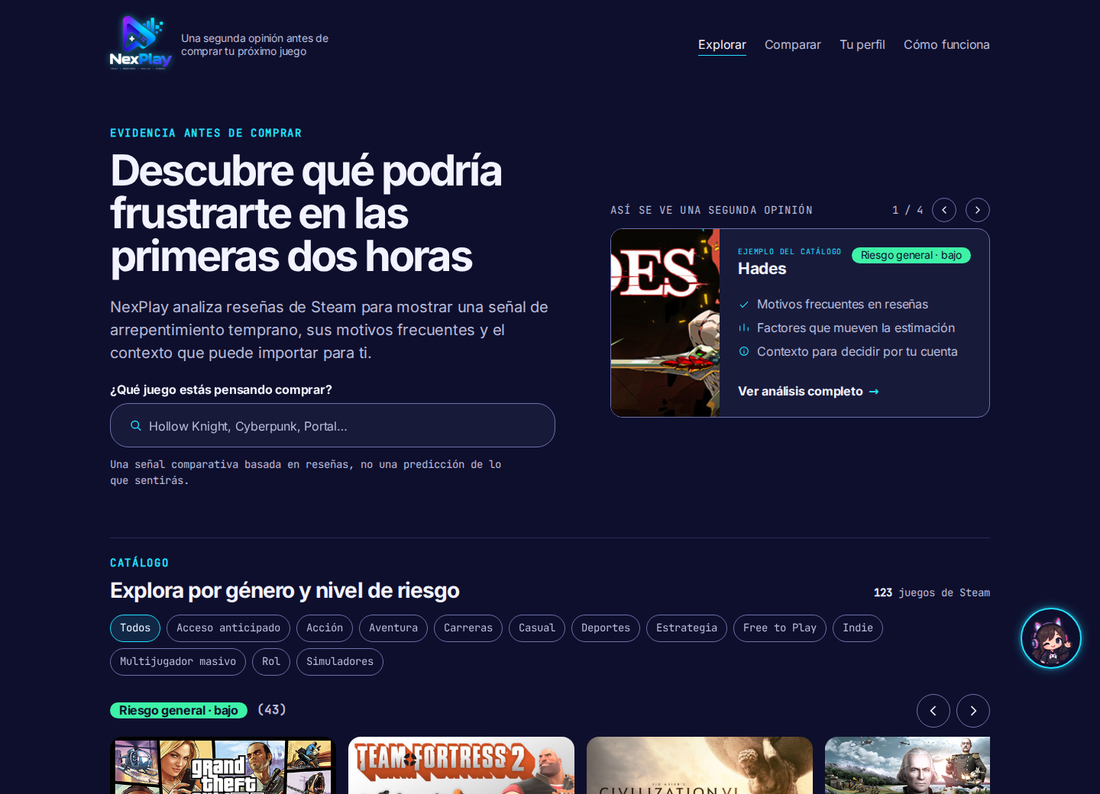
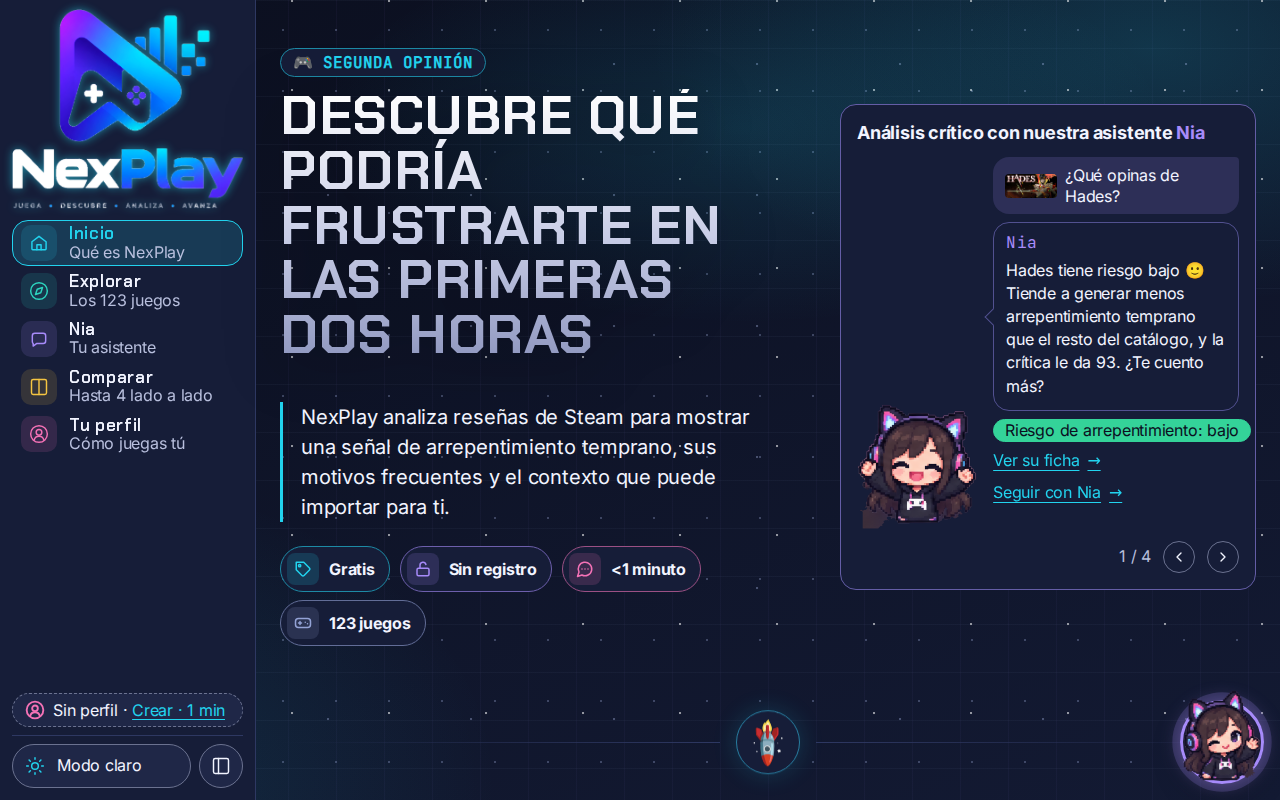
docs(readme): pasada final, insignias, resumen de 30 segundos y capturas de producción
- Encabezado:
  - insignias de Colab (00 y 01), Python 3.12+ y Angular 22;
  - enlaces a la app en vivo (Vercel) y a /docs de la API (Render);
  - un bloque «En 30 segundos» con el problema, qué estima, qué tan bien
    (PR-AUC 0.0694 ± 0.0415, 3.2 veces el trivial; en los 40 externos 0.0356
    contra 0.0234, 1.5 veces) y qué no hace.
- La primera frase dice qué tan seguido un juego deja a sus compradores
  arrepentidos en las primeras horas, según las reseñas de Steam.
- Capturas nuevas de producción (2026-09-30, bundle main-K7U4VOSO.js, modelo
  logreg-juego-2026-10-01, tema oscuro): el inicio reemplaza a la que mostraba
  «Riesgo general», y se suman la ficha de Dead Space y Comparar con PAYDAY 3
  contra Dead Space. .gitignore las deja versionar.
- Un emoji por título de sección; 🏗 ⚙ 🗂 ☁ 🛠 con el selector U+FE0F. El
  índice usa las anclas que GitHub genera con él (#%EF%B8%8F-arquitectura), las
  mismas con github-slugger y con la regla de html-pipeline.
- Prosa más cercana. Los bloques de código, el código en línea, las URLs y las
  cifras del README anterior siguen todos, y cada cifra se verificó contra el
  repo.

diff --git a/README.md b/README.md
@@ -1,56 +1,86 @@
 # NexPlay
 
-**Una segunda opinión antes de comprar tu próximo juego.** NexPlay estima el riesgo de arrepentirte
-pronto de una compra en Steam y te dice por qué, con los motivos que aparecen en reseñas reales en lugar
-de una nota genérica. Es el proyecto del Módulo V del Diplomado en Ciencia de Datos de la FES Acatlán
-(UNAM).
+**Una segunda opinión antes de comprar tu próximo juego.** NexPlay estima qué tan seguido un juego deja a
+sus compradores arrepentidos en las primeras horas, según las reseñas de Steam, y te dice por qué, con los
+motivos que aparecen en reseñas reales y no con una nota genérica. Es el proyecto del Módulo V del Diplomado
+en Ciencia de Datos de la FES Acatlán (UNAM).
 
-![Catálogo de NexPlay: buscador, un ejemplo de segunda opinión y los estantes por banda de riesgo](docs/capturas/captura-interfaz.png)
+[![Open in Colab: 00_exploracion](https://img.shields.io/badge/Open_in_Colab-00__exploracion-F9AB00?logo=googlecolab&logoColor=white)](https://colab.research.google.com/github/fernandoaxelramirezgomez-coder/nexplay/blob/master/notebooks/00_exploracion.ipynb)
+[![Open in Colab: 01_modelo_riesgo](https://img.shields.io/badge/Open_in_Colab-01__modelo__riesgo-F9AB00?logo=googlecolab&logoColor=white)](https://colab.research.google.com/github/fernandoaxelramirezgomez-coder/nexplay/blob/master/notebooks/01_modelo_riesgo.ipynb)
+[![Python 3.12+](https://img.shields.io/badge/Python-3.12%2B-3776AB?logo=python&logoColor=white)](#-requisitos-previos)
+[![Angular 22](https://img.shields.io/badge/Angular-22-DD0031?logo=angular&logoColor=white)](frontend/README.md)
 
-## Índice
+**Pruébalo:** [la app en vivo](https://nexplay-six.vercel.app) · [la API y su contrato (/docs)](https://nexplay-api-345o.onrender.com/docs).
+La API está en el plan gratis de Render y se duerme cuando nadie la usa, así que la primera carga puede tardar
+un poco.
 
-- [Qué es NexPlay](#qué-es-nexplay)
-- [Arquitectura](#arquitectura)
-- [Requisitos previos](#requisitos-previos)
-- [Puesta en marcha](#puesta-en-marcha)
-- [Configuración (.env)](#configuración-env)
-- [API](#api)
-- [Calidad](#calidad)
-- [Estructura del repositorio](#estructura-del-repositorio)
-- [Datos y releases](#datos-y-releases)
-- [Despliegue](#despliegue)
-- [Contenido de usuarios y moderación](#contenido-de-usuarios-y-moderación)
-- [Solución de problemas](#solución-de-problemas)
-- [Autor y datos](#autor-y-datos)
+> **En 30 segundos**
+>
+> - **El problema:** comprar un juego en Steam y arrepentirte en las primeras horas.
+> - **Qué estima:** para cada uno de los 123 juegos del catálogo, una banda de riesgo (bajo, medio o alto) de la
+>   señal de arrepentimiento temprano, con los factores que la mueven y los motivos de queja de las reseñas.
+> - **Qué tan bien:** PR-AUC de 0.0694 ± 0.0415 con GroupKFold por juego, 3.2 veces el clasificador trivial. En
+>   40 juegos que el modelo no vio, 0.0356 contra 0.0234, 1.5 veces el trivial.
+> - **Qué no hace:** no predice lo que vas a sentir tú (el riesgo es del juego), no es una probabilidad y no te
+>   dice si comprar.
 
-## Qué es NexPlay
+![Inicio de NexPlay en producción: qué podría frustrarte en las primeras dos horas y la opinión de Nia sobre Hades, con su riesgo de arrepentimiento](docs/capturas/captura-interfaz.png)
 
-Steam reembolsa una compra si la pides dentro de los 14 días posteriores a la compra y con menos de 2
-horas jugadas.
-NexPlay toma ese límite de 2 horas como referencia: una reseña negativa escrita antes de los 120 minutos de
-juego es una **señal de arrepentimiento temprano** (`Y = 1` si `playtime_at_review < 120` y
-`voted_up == 0`). Las reseñas no dicen cuándo se compró el juego, así que la señal no puede usar los 14
-días. Es una señal proxy: Steam no pregunta a nadie si se arrepintió, así que el proyecto nunca afirma
-que alguien lo hizo.
+<table>
+  <tr>
+    <td width="50%"><img src="docs/capturas/captura-ficha-dead-space.png" alt="Ficha de Dead Space: riesgo de arrepentimiento bajo"></td>
+    <td width="50%"><img src="docs/capturas/captura-comparar.png" alt="Comparar: PAYDAY 3, riesgo alto, contra Dead Space, riesgo bajo"></td>
+  </tr>
+  <tr>
+    <td align="center">La ficha de Dead Space</td>
+    <td align="center">PAYDAY 3 contra Dead Space, en Comparar</td>
+  </tr>
+</table>
 
-- **Datos.** De la API pública de Steam: las reseñas, de `appreviews`; el precio, la gratuidad y la nota de
-  Metacritic de cada juego, de `appdetails`. Todo se publica en releases con tag fijo. El
-  modelo se entrena siempre con data-v1 (83 juegos, 123,972 reseñas). La app sirve 123 juegos (data-v3);
-  los 40 que no están en data-v1 son prueba externa y nunca entran al entrenamiento.
-- **Modelo.** Una regresión logística con variables del juego: gratuidad, precio, descuento y cobertura y
-  nota de la crítica. El riesgo es del juego, igual para cualquier persona. Se valida con GroupKFold por
-  `appid`, porque tiene que funcionar con juegos que no vio, y se mide con PR-AUC, porque la clase es
-  rara: 0.0694 ± 0.0415 entre folds, 3.2 veces el clasificador trivial. En los 40 externos da 0.0356
+## 📑 Índice
+
+- [Qué es NexPlay](#-qué-es-nexplay)
+- [Arquitectura](#%EF%B8%8F-arquitectura)
+- [Requisitos previos](#-requisitos-previos)
+- [Puesta en marcha](#-puesta-en-marcha)
+- [Configuración (.env)](#%EF%B8%8F-configuración-env)
+- [API](#-api)
+- [Calidad](#-calidad)
+- [Estructura del repositorio](#%EF%B8%8F-estructura-del-repositorio)
+- [Datos y releases](#-datos-y-releases)
+- [Despliegue](#%EF%B8%8F-despliegue)
+- [Contenido de usuarios y moderación](#-contenido-de-usuarios-y-moderación)
+- [Solución de problemas](#%EF%B8%8F-solución-de-problemas)
+- [Autor y datos](#-autor-y-datos)
+
+## 🎮 Qué es NexPlay
+
+Steam te devuelve el dinero de un juego si lo pides dentro de los 14 días posteriores a la compra y con menos
+de 2 horas jugadas. NexPlay se fija en ese límite de 2 horas: una reseña negativa escrita antes de los 120
+minutos de juego es una **señal de arrepentimiento temprano** (`Y = 1` si `playtime_at_review < 120` y
+`voted_up == 0`). Los 14 días no se pueden usar, porque las reseñas no dicen cuándo se compró el juego.
+
+Es una señal proxy. Steam no le pregunta a nadie si se arrepintió, así que el proyecto nunca dice que alguien
+lo hizo.
+
+- **Los datos.** Salen de la API pública de Steam: las reseñas, de `appreviews`, y el precio, la gratuidad y
+  la nota de Metacritic de cada juego, de `appdetails`. Todo está publicado en releases con tag fijo. El
+  modelo se entrena siempre con data-v1 (83 juegos, 123,972 reseñas). La app sirve 123 juegos (data-v3), y
+  los 40 que no están en data-v1 son la prueba externa: nunca entran al entrenamiento.
+- **El modelo.** Es una regresión logística con variables del juego: gratuidad, precio, descuento y cobertura
+  y nota de la crítica. El riesgo es del juego, el mismo para cualquier persona. Se valida con GroupKFold por
+  `appid`, porque tiene que funcionar con juegos que no vio, y se mide con PR-AUC, porque la señal aparece en
+  pocas reseñas: 0.0694 ± 0.0415 entre folds, 3.2 veces el clasificador trivial. En los 40 externos da 0.0356
   contra 0.0234 del trivial.
-- **La app.** Muestra la banda de riesgo (bajo, medio o alto, nunca un número), los factores que más la
-  mueven, los motivos de queja más frecuentes y a Nia, un chat que explica los datos del juego sin
-  recomendar la compra. El perfil que declaras sirve para contarte qué tanto encaja un juego contigo; no
-  cambia el riesgo.
+- **La app.** Te muestra la banda de riesgo (bajo, medio o alto, nunca un número), los factores que más la
+  mueven, los motivos de queja más frecuentes y a Nia, un chat que te explica los datos del juego sin
+  recomendarte que lo compres. El perfil que declares sirve para contarte qué tanto encaja un juego contigo;
+  no cambia el riesgo.
 
-La narrativa completa está en dos notebooks que corren en Colab: `00_exploracion` (los datos, antes del
-modelo) y `01_modelo_riesgo` (el modelo). Ver [notebooks/README.md](notebooks/README.md).
+La historia completa está en dos notebooks que corren en Colab: `00_exploracion` (los datos, antes del
+modelo) y `01_modelo_riesgo` (el modelo). Los detalles, en [notebooks/README.md](notebooks/README.md).
 
-## Arquitectura
+## 🏗 Arquitectura
 
 ```mermaid
 flowchart LR
@@ -65,10 +95,10 @@ flowchart LR
     tag["tag codigo-v3"] -->|git clone| nb
 ```
 
-En producción, Render construye la API con `backend/despliegue/Dockerfile`. El build baja los datos,
-entrena el modelo y falla si alguna de las 123 bandas cambia. Vercel publica el frontend.
+En producción, Render construye la API con `backend/despliegue/Dockerfile`: baja los datos, entrena el modelo
+y, si alguna de las 123 bandas cambia, el build falla. Vercel publica el frontend.
 
-Lo que pasa al abrir la ficha de un juego:
+Esto es lo que pasa cuando abres la ficha de un juego:
 
 ```mermaid
 sequenceDiagram
@@ -88,7 +118,7 @@ sequenceDiagram
     W-->>U: banda, factores y motivos (nunca el score)
 ```
 
-## Requisitos previos
+## 🧰 Requisitos previos
 
 | Herramienta | Versión | Para qué |
 |---|---|---|
@@ -99,11 +129,11 @@ sequenceDiagram
 | Chrome | opcional | las gráficas del 00 en PNG y las capturas de la UI |
 | Clave de OpenAI | opcional | Nia con modelo; sin clave responde con reglas |
 
-No hace falta cuenta ni credenciales de Steam ni de GitHub: todo lo que se descarga es público. La
-instalación base con los datos ocupa algo más de 1 GB (`.venv` 575 MB, `node_modules` 366 MB y los datos
-102 MB). Los paquetes de los notebooks (torch CPU, lingua y transformers, entre otros) suman otros 1.6 GB.
+No necesitas cuenta ni credenciales de Steam ni de GitHub: todo lo que se descarga es público. La instalación
+base con los datos ocupa algo más de 1 GB (`.venv` 575 MB, `node_modules` 366 MB y los datos 102 MB). Si
+además corres los notebooks, sus paquetes (torch CPU, lingua y transformers, entre otros) suman otros 1.6 GB.
 
-## Puesta en marcha
+## 🚀 Puesta en marcha
 
 ### Opción A: con make
 
@@ -122,9 +152,9 @@ make test        # verificadores del backend y pruebas del frontend
 make notebooks   # opcional: ejecuta el 00 y el 01 y los compara con las salidas guardadas
 ```
 
-`make` sin objetivo muestra la lista. Cada objetivo revisa antes lo que necesita: si falta `.venv`, las
-bases o el modelo, te dice qué correr primero. Abre el frontend como `localhost`, no como `127.0.0.1`:
-el CORS de la API solo permite `http://localhost:4200`.
+Si corres `make` sin objetivo, te muestra la lista. Cada objetivo revisa antes lo que necesita: si falta
+`.venv`, las bases o el modelo, te dice qué correr primero. Abre el frontend como `localhost` y no como
+`127.0.0.1`, porque el CORS de la API solo permite `http://localhost:4200`.
 
 ### Opción B: manual, paso a paso
 
@@ -147,8 +177,8 @@ npm ci
 npx ng serve                               # http://localhost:4200
 ```
 
-`preparar_entorno.py` no pisa lo que ya existe; `--force` reconstruye, pero solo sobre bases que salieron
-de un release. Todos los comandos de Python corren desde `backend/`.
+`preparar_entorno.py` no pisa lo que ya existe. Con `--force` reconstruye, pero solo las bases que salieron de
+un release. Todos los comandos de Python corren desde `backend/`.
 
 ### Opción C: los notebooks en Colab
 
@@ -157,26 +187,26 @@ de un release. Todos los comandos de Python corren desde `backend/`.
 | `00_exploracion`: valida, limpia y explora los datos | [![Open In Colab](https://colab.research.google.com/assets/colab-badge.svg)](https://colab.research.google.com/github/fernandoaxelramirezgomez-coder/nexplay/blob/master/notebooks/00_exploracion.ipynb) |
 | `01_modelo_riesgo`: construye y mide el modelo | [![Open In Colab](https://colab.research.google.com/assets/colab-badge.svg)](https://colab.research.google.com/github/fernandoaxelramirezgomez-coder/nexplay/blob/master/notebooks/01_modelo_riesgo.ipynb) |
 
-Abre cada uno y usa *Entorno de ejecución → Ejecutar todas*. Cada notebook clona el tag `codigo-v3` y baja
-los datos verificando su sha256, así que no necesita nada de lo anterior ni pide credenciales.
+Abre cualquiera de los dos y usa *Entorno de ejecución → Ejecutar todas*. Cada notebook clona el tag
+`codigo-v3` y baja los datos verificando su sha256, así que no necesitas nada de lo anterior y no te pide
+credenciales.
 
 Cada uno corrió en Colab el 2026-09-30 sin errores ni avisos; evidencia en
 [docs/evidencia/colab/](docs/evidencia/colab/README.md). Usaron el código de `codigo-v3` (`9b64795`). El 01
 guarda en `notebooks/` las salidas de esa corrida. El 00 guarda las de una corrida local, para que sus 18
-gráficas se vean también como PNG en GitHub; su versión de Colab está en esa misma carpeta.
+gráficas también se vean como PNG en GitHub; su versión de Colab está en esa misma carpeta.
 
-## Configuración (.env)
+## ⚙ Configuración (.env)
 
-Para usar Nia con un modelo de lenguaje, copia la plantilla en la raíz y llena la clave:
+Si quieres que Nia use un modelo de lenguaje, copia la plantilla en la raíz y llena la clave:
 
 ```bash
 cp .env.example .env
 ```
 
-`.env` está en `.gitignore` y la clave nunca va en un archivo del repo; en Render se carga en
-*Environment*. La API lee el `.env` de la raíz aunque corra desde `backend/`, pero solo para las variables
-de Nia. Las demás se leen del entorno del proceso: expórtalas en la terminal antes de `make api`, o ponlas
-en el panel de Render.
+`.env` está en `.gitignore`, y la clave nunca va en un archivo del repo; en Render se carga en *Environment*.
+La API lee el `.env` de la raíz aunque corra desde `backend/`, pero solo para las variables de Nia. Las demás
+las toma del entorno del proceso: expórtalas en la terminal antes de `make api` o ponlas en el panel de Render.
 
 | Variable | Por omisión | Qué hace | Se lee de |
 |---|---|---|---|
@@ -192,10 +222,10 @@ en el panel de Render.
 | `NEXPLAY_REACCIONES_POR_MINUTO` | 30 | Reacciones por minuto. | entorno |
 | `NEXPLAY_VOTOS_NIA_POR_MINUTO` | 30 | Votos a respuestas de Nia por minuto. | entorno |
 
-## API
+## 🔌 API
 
-Con la API levantada, el contrato completo está en http://localhost:8000/docs. Qué significa cada campo,
-con ejemplos, está en [backend/api/README.md](backend/api/README.md).
+Con la API levantada, tienes el contrato completo en http://localhost:8000/docs. Qué significa cada campo, con
+ejemplos, lo explica [backend/api/README.md](backend/api/README.md).
 
 | Método y ruta | Qué hace |
 |---|---|
@@ -212,7 +242,7 @@ con ejemplos, está en [backend/api/README.md](backend/api/README.md).
 | `GET /nia/opiniones?appids=` | La opinión corta de Nia sobre hasta 6 juegos, sin modelo de lenguaje. |
 | `PUT` y `DELETE /nia/valoracion/{id}` | El 👍 o 👎 a una respuesta de Nia. |
 
-Por ejemplo, el riesgo de Hades:
+Por ejemplo, así pides el riesgo de Hades:
 
 ```bash
 PERFIL=$(curl -s -X POST http://localhost:8000/perfil -H 'Content-Type: application/json' \
@@ -222,10 +252,10 @@ curl -s -X POST http://localhost:8000/prediccion -H 'Content-Type: application/j
   -d "{\"perfil\": $PERFIL, \"appid\": 1145360}"
 ```
 
-`riesgo` ordena los juegos de más a menos riesgo, pero no es una probabilidad calibrada. Por eso la app
-muestra solo `nivel`, que sale de los terciles de los scores de validación.
+`riesgo` ordena los juegos de más a menos riesgo, pero no es una probabilidad calibrada. Por eso la app solo
+muestra `nivel`, que sale de los terciles de los scores de validación.
 
-## Calidad
+## ✅ Calidad
 
 | Comando | Qué revisa |
 |---|---|
@@ -236,10 +266,11 @@ muestra solo `nivel`, que sale de los terciles de los scores de validación.
 | `python calidad/preguntas_nia.py --api http://localhost:8000 --etiqueta prueba`, desde `backend/` | Las 25 preguntas a Nia contra una API levantada. |
 | El build de Render | Corre `preparar_entorno.py` y `verificar_bandas.py`; falla si una banda cambia o si llega torch a la imagen. |
 
-Cada decisión medida (por qué no se entrena con los 123, qué pasa con otra partición, la señal por banda)
-está en [docs/evidencia/](docs/evidencia/README.md), con el script que la reproduce en `backend/calidad/`.
+Cada decisión que se midió (por qué no se entrena con los 123, qué pasa con otra partición, la señal por
+banda) está en [docs/evidencia/](docs/evidencia/README.md), con el script que la reproduce en
+`backend/calidad/`.
 
-## Estructura del repositorio
+## 🗂 Estructura del repositorio
 
 ```
 nexplay/
@@ -263,11 +294,11 @@ nexplay/
 └── docs/                evidencia, capturas, diseño e historial
 ```
 
-Cada carpeta tiene un `README.md` corto con lo que va ahí y lo que no. Al correr aparecen, sin
+Cada carpeta tiene un `README.md` corto que dice qué va ahí y qué no. Cuando corres el proyecto aparecen, sin
 versionarse, `backend/datos/`, `backend/modelo/`, `backend/extracto/` y `backend/registros/`. El documento
-final en LaTeX (`documento/`) llega al fusionar su rama; mientras tanto, `make doc` solo avisa.
+final en LaTeX (`documento/`) llega cuando se fusione su rama; mientras tanto, `make doc` solo avisa.
 
-## Datos y releases
+## 💾 Datos y releases
 
 | Release | Qué trae | Para qué |
 |---|---|---|
@@ -275,12 +306,12 @@ final en LaTeX (`documento/`) llega al fusionar su rama; mientras tanto, `make d
 | `data-v2` | 123 juegos | Los 40 títulos que no están en data-v1 son la prueba externa del 01. |
 | `data-v3` | Los juegos y reseñas de data-v2, más los totales públicos de Steam (`resumen_resenas`) | Lo que sirve la API. |
 
-Cada release trae `nexplay_reproducible.db.xz`, una copia sanitizada de la base sin la columna `steamid`,
-y `nexplay_extracto.parquet`, un extracto sin texto para el 01. Quien los baja verifica el sha256 antes de
-abrirlos (`descargar_verificado`, en `backend/despliegue/utilidades.py`).
+Cada release trae `nexplay_reproducible.db.xz`, una copia sanitizada de la base sin la columna `steamid`, y
+`nexplay_extracto.parquet`, un extracto sin texto para el 01. Antes de abrirlos se verifica su sha256
+(`descargar_verificado`, en `backend/despliegue/utilidades.py`).
 
-**Regenerar un release (solo mantenedores).** Hace falta solo si se vuelve a ingestar Steam o cambia el
-esquema. Desde `backend/`:
+**Regenerar un release (solo mantenedores).** Solo hace falta si vuelves a ingestar Steam o cambia el esquema.
+Desde `backend/`:
 
 ```bash
 python ingesta/ingesta_steam.py --catalogo
@@ -291,11 +322,11 @@ python publicacion/extracto_reproducible.py        # extracto/nexplay_reproducib
 gh release create data-v4 extracto/nexplay_extracto.parquet extracto/nexplay_reproducible.db.xz
 ```
 
-Cada extracto nuevo va con un tag nuevo, nunca reemplazando los assets de uno publicado. Después hay que
-poner los sha256 que imprime cada script en `backend/despliegue/preparar_entorno.py` (`SERVIDO_SHA256` y
+Cada extracto nuevo va con un tag nuevo; nunca se reemplazan los assets de uno publicado. Después pones los
+sha256 que imprime cada script en `backend/despliegue/preparar_entorno.py` (`SERVIDO_SHA256` y
 `ENTRENAMIENTO_SHA256`) y en los notebooks. Si no coinciden, la descarga se rechaza a propósito.
 
-## Despliegue
+## ☁ Despliegue
 
 - **API en Render**, como servicio Docker, en https://nexplay-api-345o.onrender.com. Su configuración:
   - Root Directory: `backend`
@@ -303,29 +334,30 @@ poner los sha256 que imprime cada script en `backend/despliegue/preparar_entorno
   - Docker Build Context Directory: `.` (un solo punto, la misma carpeta `backend/`)
 
   El build instala `requirements.txt` y `requirements-modelo.txt` (sin pyarrow), baja los datos, entrena y
-  corre `verificar_bandas.py`. Los Build Filters incluyen solo lo que copia el Dockerfile, así que un cambio
-  en un README no dispara un deploy.
-- **Frontend en Vercel**, con Root Directory `frontend`. `frontend/vercel.json` reescribe toda ruta a
-  `index.html`, y `frontend/src/environments/environment.ts` apunta a la API de Render. El origen de Vercel
-  se agrega a la API con `NEXPLAY_CORS_ORIGENES`.
+  corre `verificar_bandas.py`. Los Build Filters incluyen solo lo que copia el Dockerfile, así que cambiar un
+  README no dispara un deploy.
+- **Frontend en Vercel**, con Root Directory `frontend`, en https://nexplay-six.vercel.app.
+  `frontend/vercel.json` reescribe toda ruta a `index.html`, y `frontend/src/environments/environment.ts`
+  apunta a la API de Render. El origen de Vercel se agrega a la API con `NEXPLAY_CORS_ORIGENES`.
 
-En el plan gratis de Render el disco es efímero: `valoraciones.db` se borra cuando el servicio se reinicia.
+En el plan gratis de Render el disco es efímero: `valoraciones.db` se borra cada vez que el servicio se
+reinicia.
 
-## Contenido de usuarios y moderación
+## 💬 Contenido de usuarios y moderación
 
 Las calificaciones, los comentarios y los votos a Nia viven en `backend/datos/valoraciones.db`, aparte del
-catálogo. No salen de ningún release: `make data` no los toca y respaldarlos es copiar el archivo. La
-identidad es un id anónimo que genera el navegador: identifica, pero no autentica, así que no es control
-de acceso.
+catálogo. No salen de ningún release: `make data` no los toca, y respaldarlos es copiar el archivo. La
+identidad es un id anónimo que genera el navegador. Identifica, pero no autentica, así que no sirve como
+control de acceso.
 
 Desde `backend/`:
 
 - `python operacion/exportar_valoraciones.py` deja dos CSV en `extracto/`, uno de calificaciones y otro de
   comentarios.
-- `python operacion/moderar_comentarios.py [appid]` lista los comentarios, y `--borrar ID` elimina uno con
-  sus reacciones. Es el único camino para borrar el comentario de otra persona.
+- `python operacion/moderar_comentarios.py [appid]` lista los comentarios, y `--borrar ID` elimina uno con sus
+  reacciones. Es la única forma de borrar el comentario de otra persona.
 
-## Solución de problemas
+## 🛠 Solución de problemas
 
 | Síntoma | Causa | Qué hacer |
 |---|---|---|
@@ -341,7 +373,7 @@ Desde `backend/`:
 | El build de Render falla con «torch o sentence-transformers en la imagen» | Algo agregó un paquete de notebooks a los requirements de la API. | Esos paquetes van solo en `backend/requirements-notebooks.txt`. |
 | Vienes de la estructura anterior y la API no encuentra los datos | `datos/`, `modelo/`, `extracto/` y `registros/` ahora viven en `backend/`. | Muévelas: `mv datos modelo extracto registros backend/`. |
 
-## Autor y datos
+## 👤 Autor y datos
 
 Fernando Axel Ramírez Gómez, Diplomado en Ciencia de Datos, FES Acatlán (UNAM).
 
